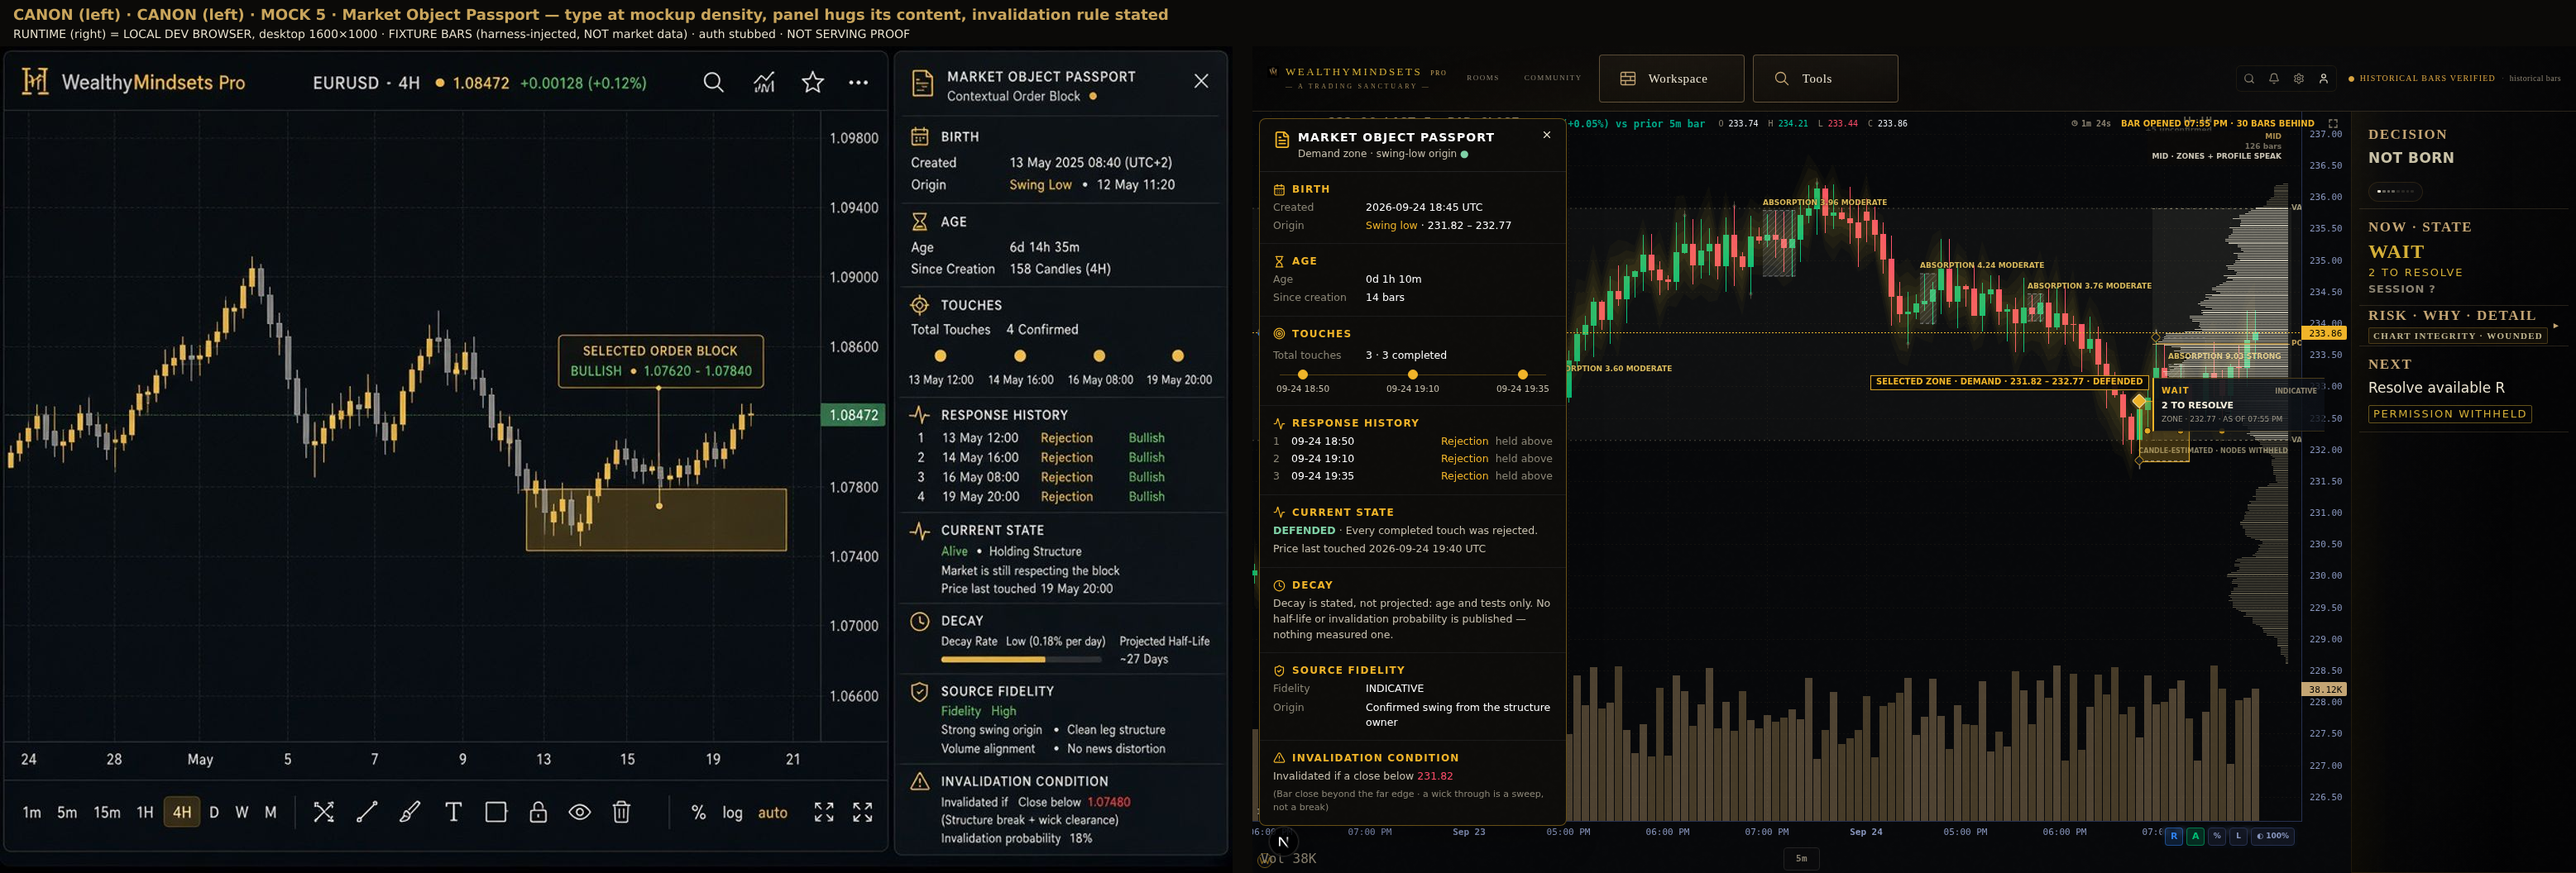
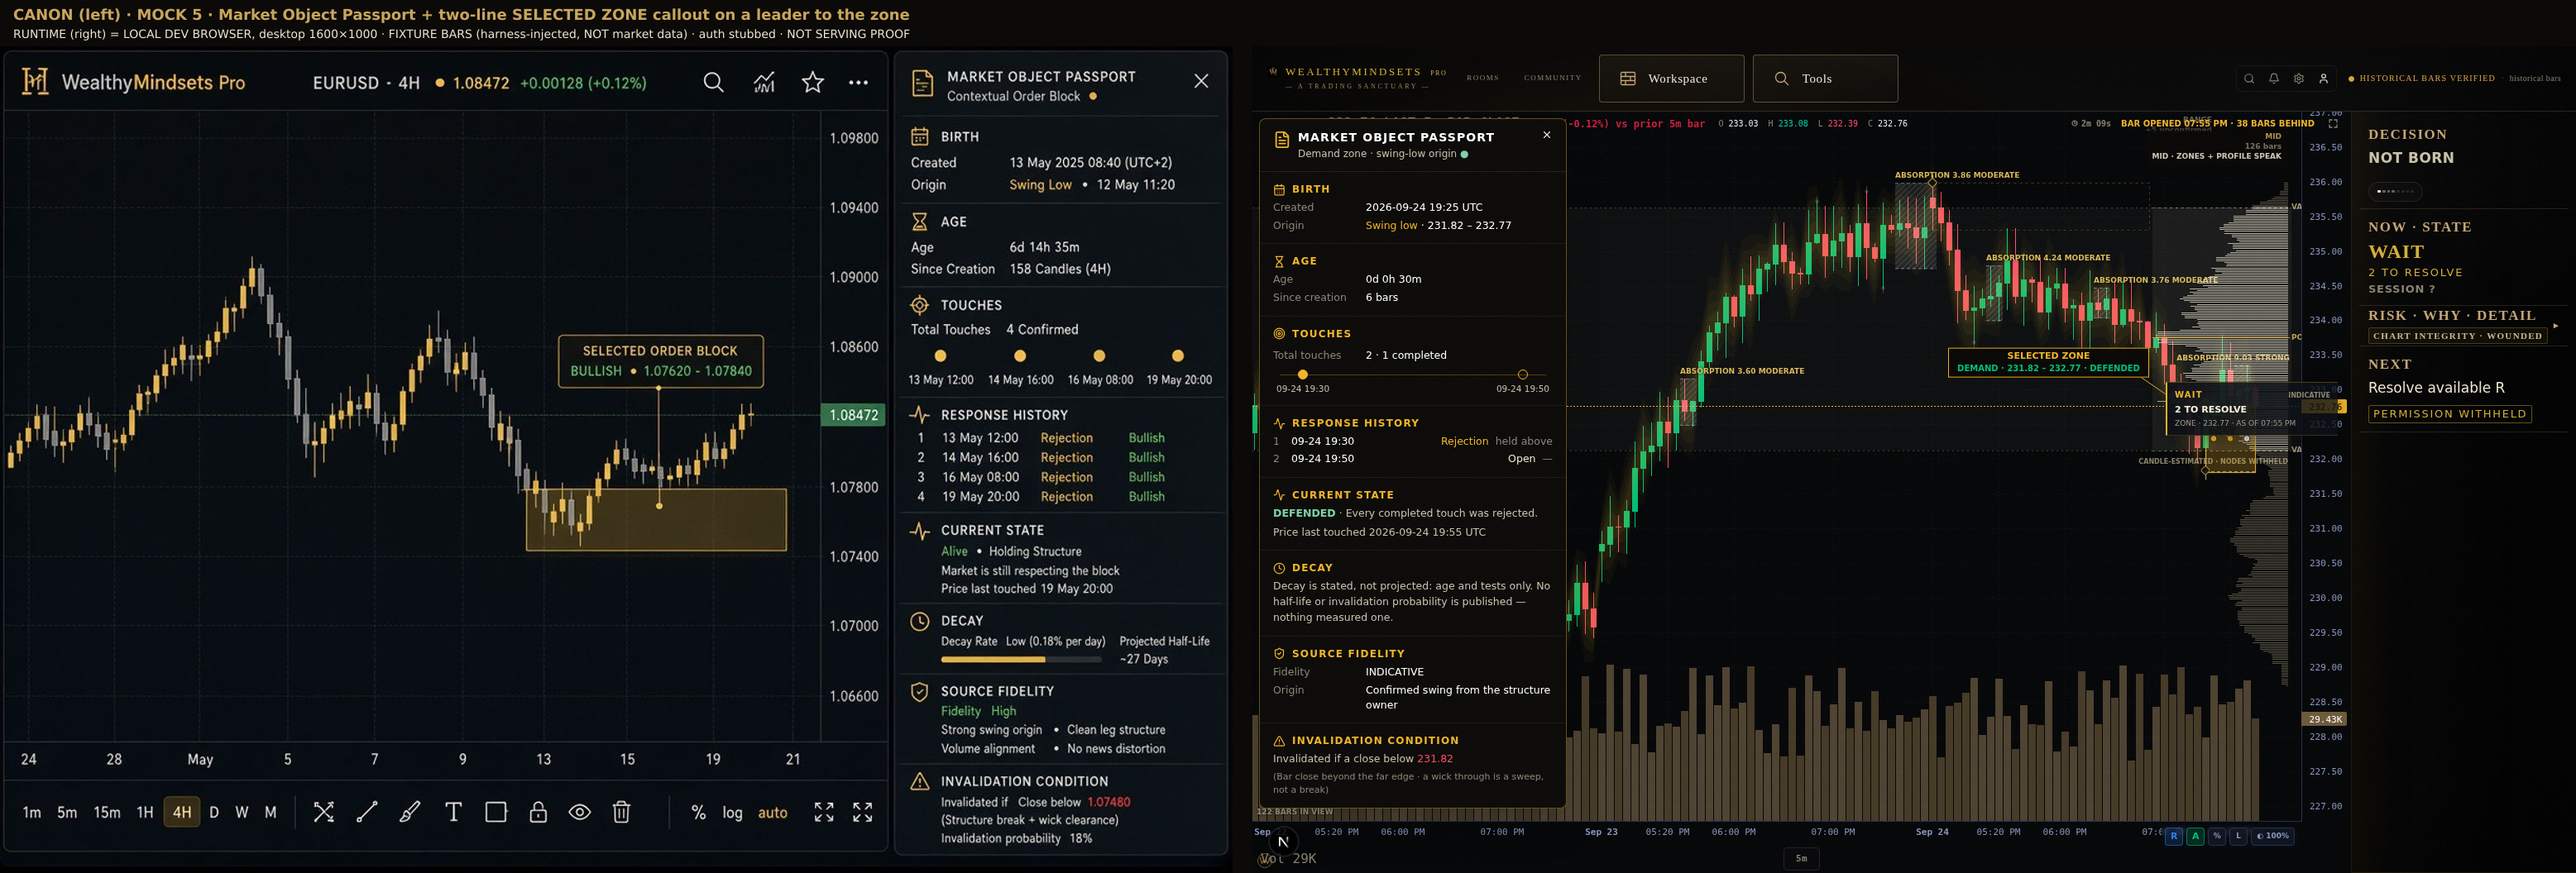
Selected zone callout: the mockup's two-line box on a leader
SELECTED ZONE over side · range · measured state (side-coloured), standing
above the zone with a leader from the box's foot to the zone's middle.
Registers as an obstacle for later chips.

Claude-Session: https://claude.ai/code/session_01Gntm2WzCaW5uQMS2aMojoZ

diff --git a/src/components/chart/MainChart.tsx b/src/components/chart/MainChart.tsx
@@ -10901,19 +10901,41 @@ export function MainChart({ symbol, timeframe, setTimeframe, footprintType, foot
                   ctx.strokeStyle = "rgba(11,10,8,0.9)"; ctx.lineWidth = 1; ctx.stroke();
                 }
               }
-              // The chip, as the mockup draws it: what it is and its range.
-              const text = `SELECTED ZONE · ${z.side} · ${z.object.priceLow.toFixed(2)} – ${z.object.priceHigh.toFixed(2)} · ${z.lifecycle.state}`;
+              // The callout, as the mockup draws it: a two-line box standing
+              // above the zone on a leader to its middle — what it is, then its
+              // side, range and measured state.
+              const l1 = "SELECTED ZONE";
+              const l2 = `${z.side} · ${z.object.priceLow.toFixed(2)} – ${z.object.priceHigh.toFixed(2)} · ${z.lifecycle.state}`;
+              ctx.font = "700 11px ui-sans-serif, system-ui, sans-serif";
+              const w1 = ctx.measureText(l1).width;
               ctx.font = "700 10px ui-sans-serif, system-ui, sans-serif";
-              const w = Math.ceil(ctx.measureText(text).width) + 14;
-              const cx = Math.max(4, Math.min(x0 + (zEnd - x0) / 2 - w / 2, endX - w));
-              const cy = Math.max(24, top - 22);
-              ctx.fillStyle = "rgba(11,10,8,0.9)";
-              ctx.fillRect(cx, cy - 9, w, 18);
-              ctx.strokeStyle = invalid ? "rgba(170,170,180,0.9)" : "rgba(240,180,41,0.95)";
-              ctx.strokeRect(cx + 0.5, cy - 8.5, w - 1, 17);
+              const w2 = ctx.measureText(l2).width + 14;
+              const w = Math.ceil(Math.max(w1 + 20, w2 + 8));
+              const bh2 = 36;
+              const anchorX = x0 + (zEnd - x0) / 2;
+              const cx = Math.max(4, Math.min(anchorX - w / 2, endX - w));
+              const by = Math.max(HEADER_FLOOR_Y, top - bh2 - 34);
+              const gold = invalid ? "rgba(170,170,180,0.9)" : "rgba(240,180,41,0.95)";
+              if (by + bh2 < top - 4) {
+                ctx.strokeStyle = gold; ctx.lineWidth = 1;
+                // Leave from the box's own foot (clamped under it), land on the zone.
+                const footX = Math.max(cx + 10, Math.min(anchorX, cx + w - 10));
+                ctx.beginPath(); ctx.moveTo(Math.round(footX) + 0.5, by + bh2); ctx.lineTo(Math.round(anchorX) + 0.5, midY); ctx.stroke();
+                ctx.beginPath(); ctx.arc(anchorX, midY, 3, 0, Math.PI * 2); ctx.fillStyle = gold; ctx.fill();
+              }
+              ctx.fillStyle = "rgba(11,10,8,0.92)";
+              ctx.fillRect(cx, by, w, bh2);
+              ctx.strokeStyle = gold;
+              ctx.strokeRect(cx + 0.5, by + 0.5, w - 1, bh2 - 1);
+              ctx.textAlign = "center"; ctx.textBaseline = "middle";
+              ctx.font = "700 11px ui-sans-serif, system-ui, sans-serif";
               ctx.fillStyle = invalid ? "rgba(220,220,228,1)" : "rgba(240,180,41,1)";
-              ctx.textAlign = "left"; ctx.textBaseline = "middle";
-              ctx.fillText(text, cx + 7, cy);
+              ctx.fillText(l1, cx + w / 2, by + 11);
+              ctx.font = "700 10px ui-sans-serif, system-ui, sans-serif";
+              ctx.fillStyle = invalid ? "rgba(220,220,228,0.9)" : z.side === "DEMAND" ? "rgba(0,192,118,1)" : "rgba(255,77,106,1)";
+              ctx.fillText(l2, cx + w / 2, by + 26);
+              ctx.textAlign = "left";
+              floatingChips.push({ x: cx, y: by, w, h: bh2 });
               selectedPainted = z.object.objectId;
             }
             ctx.restore();
